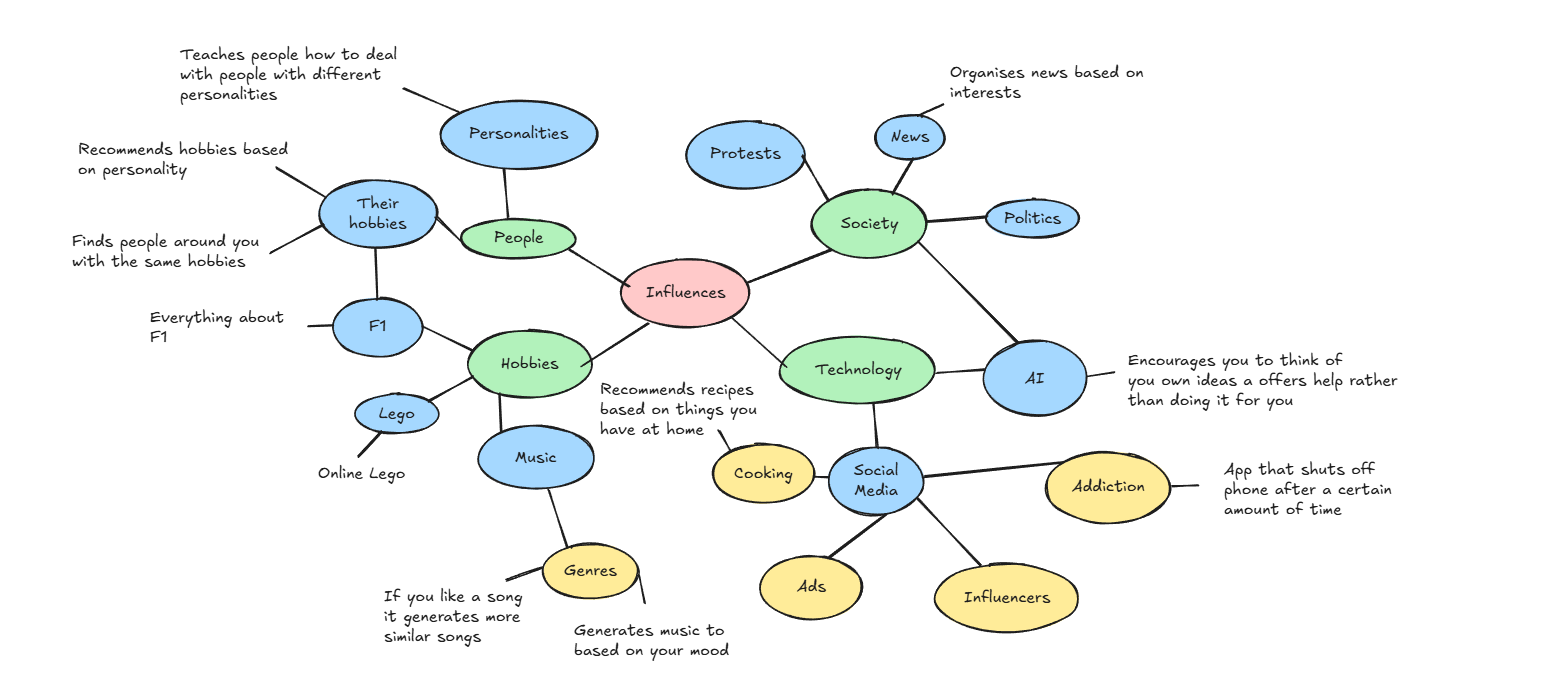
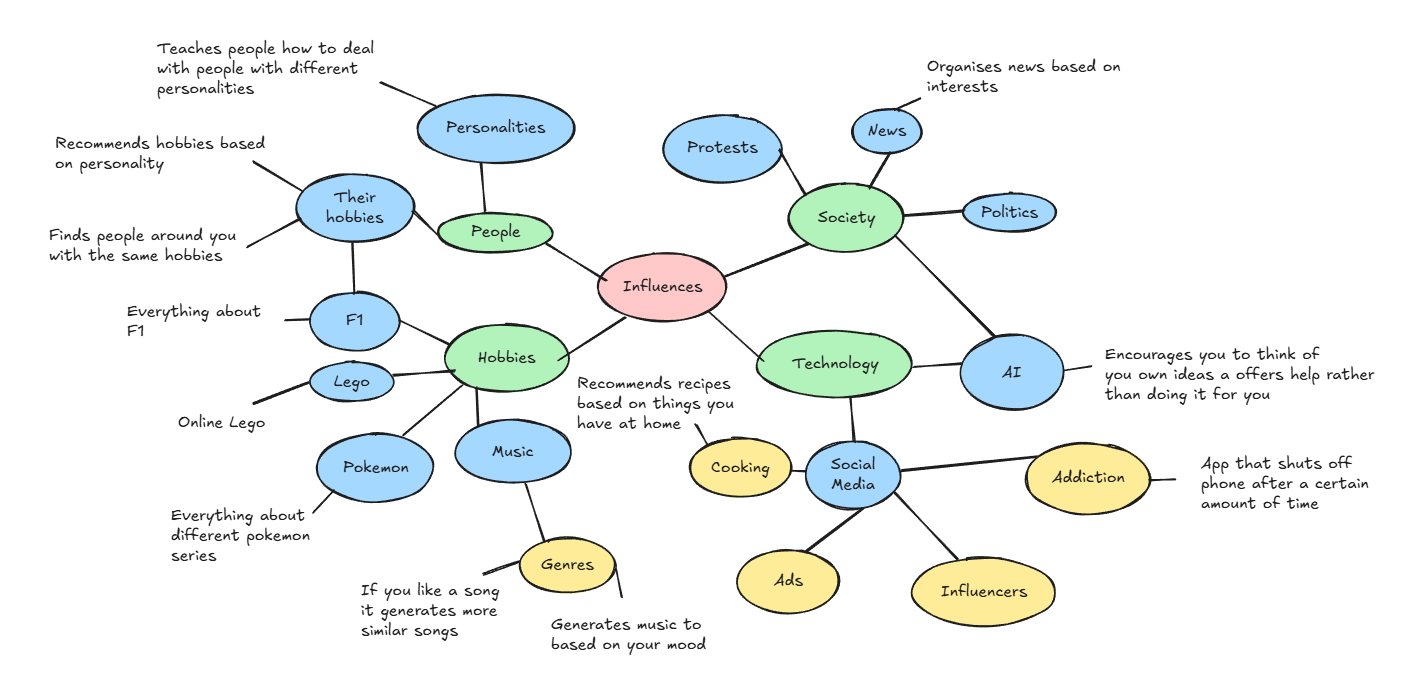
Change
I changed my idea to pokemon so had to retake some screenshots for my images. Also I started my documentation.

diff --git a/Documentation.md b/Documentation.md
@@ -9,7 +9,7 @@
 | - | - | - | - |
 | Recipe with my groceries | When people enter the groceries they have at home, the website will generate different recipes they can try. | It influences people not to waste food. | People who have a hard time using groceries to cook meals. |
 | All about F1 | Informs people about everything on F1 |  | People who want to start getting into F1 | 
-| Connecting | Finds people near you who have similar or the same hobbies as you. | Helps people to connect with eachother and brings everyone together.  | Helps those who have a hard time making friends and striking up conversations by giving something to start talking about. | 
+| Pokemon Series' |  |  | | 
 | Match your mood | Generates music based on your mood and also if you enter in a song you like, it will find you similar ones |  |  |
 | Online Lego | You can play with lego blocks online and create whatever you want | Influences creativity | Helps those who have limited movements in their hands or can't buy physical lego | 
 | Don't be alone | Teaches people how to deal with people with different personalities based on MBTI |  | Those who have trouble talking and socialising with others |
@@ -86,6 +86,12 @@ Implement your application using appropriate scripting / programming languages (
 ### Documentation
 Document the whole development process (including all of the above) in a Markdown (.md) file.
 
+| Week | Development Process |
+| - | - |
+| 2 | Made the documentation.md files, my mind map and started the 6 big ideas. |
+| 3 | I nearly finished the Diverge section and made the matrix and SWOT for my ideas. |
+| 4 | I decided to change my idea from F1 to Pokemon due to the overflowing amount of pre-existing F1 websites and also started on documenting the development process. |
+
 ### Version Control
 Commit all changes to GitHub regularly and make highly detailed comments for each new version.
 
@@ -95,7 +101,6 @@ Commit all changes to GitHub regularly and make highly detailed comments for eac
 Evaluate your own project and that of your peers using predetermined criteria.
 
 ### Evaluation of Issues
-
 Evaluation of your solution in terms of social, ethical, and legal responsibilities / issues.
 
 ### Project Evaluation
